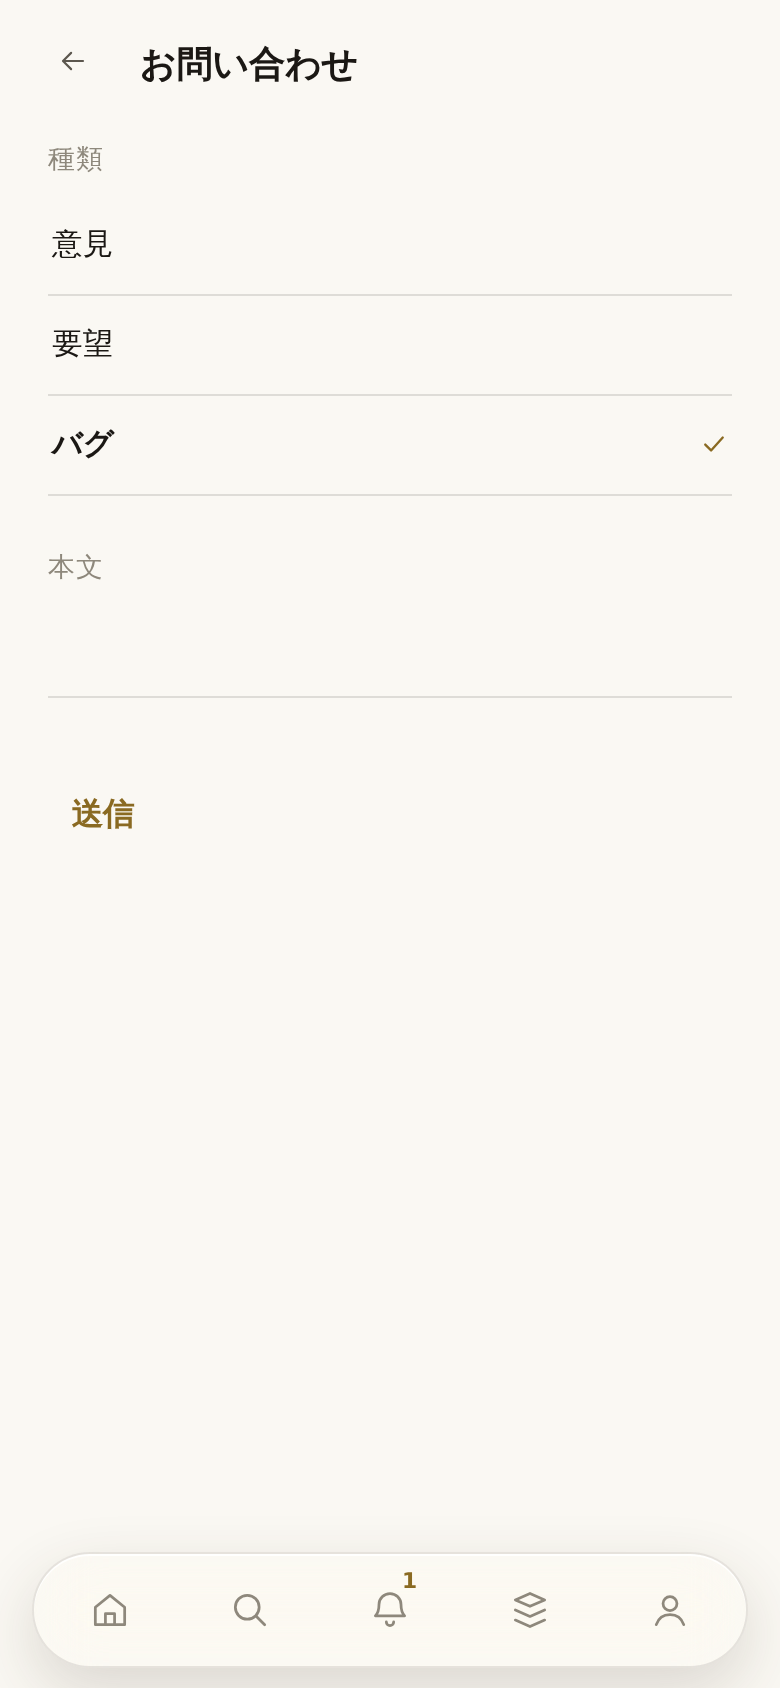
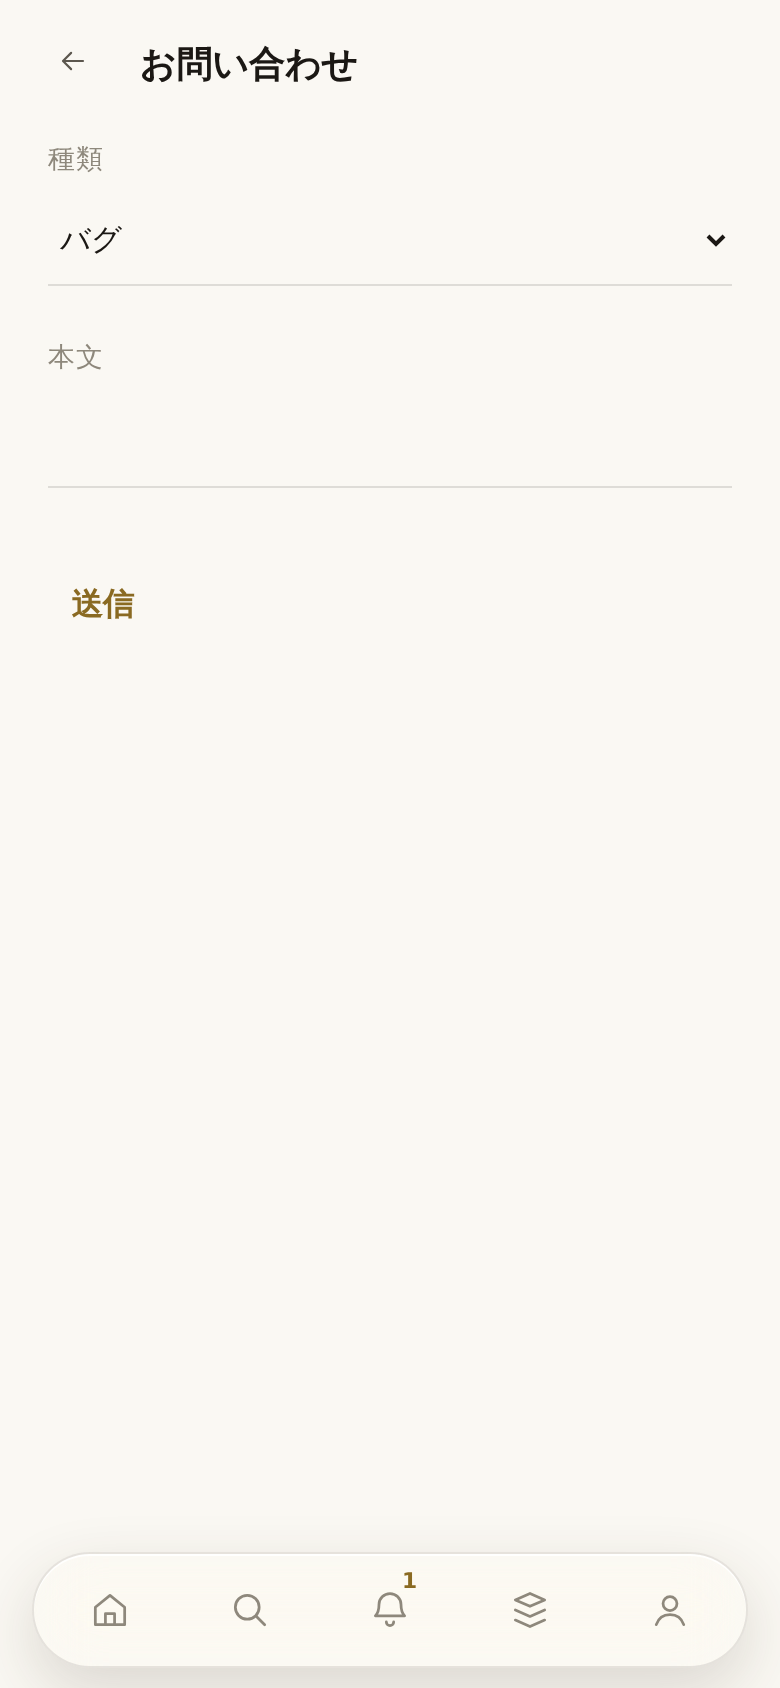
画面: 種類は wheel に ── 三行を縦に並べるのをやめる
「お問い合わせの意見とか縦に並べるのきもいからやめてくれ。選択肢気にしてくれ
あと俺はスクショ送ったよね？なんで治してないの？」OWNER 2026-09-22。

**俺の読み違いだった。**スクショをもらった時にラベルだけ足して、選択肢は
`.set lrow` の三行のまま残していた。設定一覧と同じ三行は「行き先が三つ」に
見える形で、この三つは行き先ではなく一つの問いへの一つの答え。フォームは
それを wheel で訊く ── もらったスクショがそうなっている。

`<select>` に。`.field select` は既にスタイルがあり、オンボーディングの表示
言語（obLang）も既に wheel なので、**CSS も新しい仕掛けも足していない**。
`CH()` は data-ch で、登録は actIn（act ではない）。

単語シートは逆に wheel をやめて頁にしたが（wdPickRow）、あれは品詞と語域と
形 ── 長い一覧と、人が足せる一覧で、どちらも wheel に入らない。固定の三語は
入る。

acct-check 79 は三行を押す形だったので wheel を回す形に書き直した。開いた時に
一つ目が選ばれていること（「最初につけていいよ」）も同じ claim の中。

act / es5 / dead / box / i18n / acct 緑。写真：r45-contact-empty / -kind /
-written。

Claude-Session: https://claude.ai/code/session_01Rhn9xAnLWjkCZvjhnJpjae

diff --git a/www/settings.js b/www/settings.js
@@ -410,7 +410,10 @@ function vSet(){
    thing they can see. */
 var CONT={kind:'opinion', body:'', busy:false};
 var CONT_KINDS=['opinion', 'request', 'bug'];
-function contactKind(k){ CONT.kind=String(k||'opinion'); render(); }
+/* The wheel hands the value over; nothing else on the screen reads it, so
+   there is nothing to draw again. render() here would rebuild the field the
+   person is about to type into for no reason. */
+function contactKind(k){ CONT.kind=String(k||'opinion'); }
 /* Stored and not rendered back: render() here would rebuild the field under
    whoever is typing into it. setPwSet() above and adminSet() in www/mod.js
    are the same line, and lnGrow() is what makes the box follow the words. */
@@ -465,27 +468,38 @@ function vContact(){
      picture read as a form is the LABELS, not the frames, so the labels are
      what was missing here and the frames stay gone.
 
-     A label is not an explanation. It says what the thing under it IS, which
-     is the same thing `.sl` does on every settings row. */
+     AND THE KIND IS A `<select>`, NOT THREE ROWS DOWN THE PAGE.
+     「お問い合わせの意見とか縦に並べるのきもいからやめてくれ。選択肢気にして
+     くれ」 OWNER 2026-09-22 -- three rows of a settings list is what a list of
+     DESTINATIONS looks like, and these three are not places to go, they are
+     one answer to one question. A form asks it with a wheel, which is what the
+     picture the owner sent asks it with.
+
+     The word sheet went the other way for its three (`wdPickRow`), and that
+     was about a different thing: a part of speech is a long list and a form is
+     one a person can ADD to, so neither fits in a wheel and both need a page.
+     Three fixed words do.
+
+     `.field select` is already in the stylesheet and `obLang` in the
+     onboarding is already one, so nothing new is invented here and no CSS is
+     added. */
   return '<div class="view">'+navTop('')+'<div class="body">'+
     '<div class="field">'+
       '<label>'+esc(t('contact.kind'))+'</label>'+
-      /* Rows and not a rail of round chips, which is banned; the same
-         `.set lrow` the interface languages are chosen with, so one press
-         chooses and the chosen one carries the tick. */
+      '<select id="cont-k" aria-label="'+esc(t('contact.kind'))+'"' +
+        CH('contactKind') + '>'+
       CONT_KINDS.map(function(k){
-        return '<button class="set lrow'+(CONT.kind===k? ' on':'')+'"' +
-          DO('contactKind', [k]) + '>'+
-          '<span class="sl">'+esc(t('contact.'+k))+'</span>'+
-          '<span class="lchk">'+(CONT.kind===k? ICON_TICK : '')+'</span></button>';
+        return '<option value="'+esc(k)+'"'+(CONT.kind===k? ' selected':'')+'>'+
+          esc(t('contact.'+k))+'</option>';
       }).join('')+
+      '</select>'+
     '</div>'+
     /* NO PLACEHOLDER. The label above it already says what goes here, and a
-       placeholder repeating it is the same word twice -- one of which
-       disappears the moment somebody types.
+     placeholder repeating it is the same word twice -- one of which
+     disappears the moment somebody types.
 
-       No `.sfont`: what is written here is read by whoever makes the app, in
-       their own letters. A message in somebody's own alphabet is a message
+     No `.sfont`: what is written here is read by whoever makes the app, in
+     their own letters. A message in somebody's own alphabet is a message
        nobody can answer. */
     '<div class="field" style="margin-top:26px">'+
       '<label>'+esc(t('contact.body'))+'</label>'+

diff --git a/www/act-map.js b/www/act-map.js
@@ -175,7 +175,6 @@ act('setSignOut', setSignOut);
 act('setMail', setMail);
 act('setPwGo', setPwGo);
 act('setPwForgot', setPwForgot);
-act('contactKind', contactKind);
 act('contactGo', contactGo);
 act('obSkipAll', obSkipAll);
 act('obTourNext', obTourNext);
@@ -375,6 +374,7 @@ actIn('ltSetNote', ltSetNote);
 actIn('obLang', obLang);
 actIn('obMailSet', obMailSet);
 actIn('setPwSet', setPwSet);
+actIn('contactKind', contactKind);
 actIn('contactSet', contactSet);
 actIn('fSetQ', fSetQ);
 /* the names typed into the sheet (www/sheet.js, chapter 26) */
